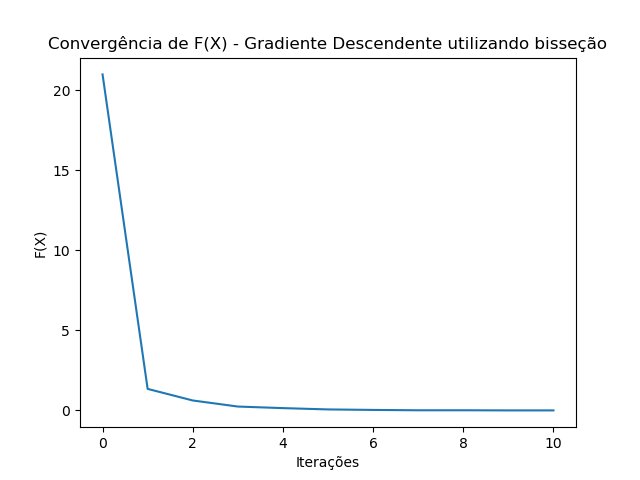
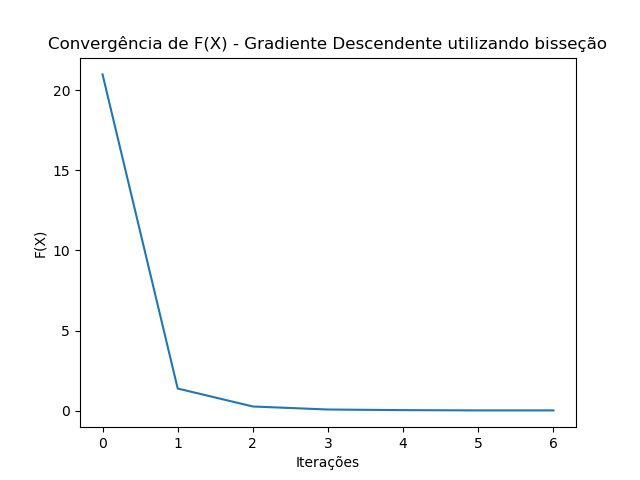
refactor

diff --git a/Atividade 2/gradient_descendente.py b/Atividade 2/gradient_descendente.py
@@ -23,7 +23,7 @@ def hessiana_X(x):
     """
     return np.array([[2, -2],[-2, 4]])
 
-def grad_descendente_passo_fixo(x, learning_rate=0.1, iter_max=1000, max_error=1e-2):
+def grad_descendente(x, taxa_aprendizado_fixa=None, iter_max=1000, max_error=1e-2):
 
     J = []
     f_val = f_X(x)
@@ -32,8 +32,13 @@ def grad_descendente_passo_fixo(x, learning_rate=0.1, iter_max=1000, max_error=1
 
     for i in range(iter_max):
 
-        grad_x = gradF_X(x)
-        x -= learning_rate*grad_x
+        d = -gradF_X(x)
+
+        if taxa_aprendizado_fixa is None:
+            alpha = bissecao(x, d)
+        else:
+            alpha = taxa_aprendizado_fixa
+        x += alpha*d
 
         f_val = f_X(x)
         # if i % 2 == 0:
@@ -46,33 +51,7 @@ def grad_descendente_passo_fixo(x, learning_rate=0.1, iter_max=1000, max_error=1
             return x, J
     return x, J
 
-
-def grad_descendente_bissecao(x, iter_max=1000, max_error=1e-2):
-
-    J = []
-    f_val = f_X(x)
-    J.append(f_val)
-    print ("Valor inicial de F_X: %f" %(f_val))
-
-    for i in range(iter_max):
-
-        grad_x = gradF_X(x)
-        passo = bissecao(x, -grad_x)
-        x -= passo*grad_x
-
-        f_val = f_X(x)
-        # if i % 2 == 0:
-        J.append(f_val)
-        print ("Valor de F_X na iteração %i: %f" %(i, f_val))
-  
-        if np.abs(f_val) < max_error:
-            J.append(f_val)
-            print ("Valor de F_X na iteração final %i: %f" %(i, f_val))
-            return x, J
-    return x, J
-
-
-def grad_descendente_newton_passo_fixo(x, learning_rate=0.1, iter_max=1000, max_error=1e-2):
+def grad_descendente_newton(x, taxa_aprendizado_fixa=None, iter_max=1000, max_error=1e-2):
 
     J = []
     f_val = f_X(x)
@@ -85,38 +64,14 @@ def grad_descendente_newton_passo_fixo(x, learning_rate=0.1, iter_max=1000, max_
         H_x = hessiana_X(x)
         
         d = -np.linalg.inv(H_x) @ grad_x
-        # passo = bissecao(x, d)
-        x += learning_rate*d
-
-        f_val = f_X(x)
-        # if i % 2 == 0:
-        J.append(f_val)
-        print ("Valor de F_X na iteração %i: %f" %(i, f_val))
-  
-        if np.abs(f_val) < max_error:
-            J.append(f_val)
-            print ("Valor de F_X na iteração final %i: %f" %(i, f_val))
-            return x, J
-    return x, J
-
-def grad_descendente_newton_bissecao(x, iter_max=1000, max_error=1e-2):
-
-    J = []
-    f_val = f_X(x)
-    J.append(f_val)
-    print ("Valor inicial de F_X: %f" %(f_val))
-
-    for i in range(iter_max):
-
-        grad_x = gradF_X(x)
-        H_x = hessiana_X(x)
         
-        d = -np.linalg.inv(H_x) @ grad_x
-        passo = bissecao(x, d)
-        x += passo*d
+        if taxa_aprendizado_fixa is None:
+            alpha = bissecao(x, d)
+        else:
+            alpha = taxa_aprendizado_fixa
+        x += alpha*d
 
         f_val = f_X(x)
-        # if i % 2 == 0:
         J.append(f_val)
         print ("Valor de F_X na iteração %i: %f" %(i, f_val))
   
@@ -160,8 +115,7 @@ def bissecao(x, direcao, alpha_superior=None, h_derivada_min=1e-3, max_error=1e-
             return alpha_medio
     return alpha_medio
 
-
-def gradiente_conjugado_passo_fixo(x0, n, learning_rate=0.1, iter_max=1000, max_error=1e-2):
+def gradiente_conjugado(x0, n, taxa_aprendizado_fixa=None, iter_max=1000, max_error=1e-2):
     """
         Utilizando a aproximação Fletcher-Reeves (FR)
     """
@@ -169,31 +123,11 @@ def gradiente_conjugado_passo_fixo(x0, n, learning_rate=0.1, iter_max=1000, max_
     d = -gradF_X(x0)
     x = x0
     for i in range(iter_max):
-        x_proximo = x + learning_rate*d
-        fx = f_X(x_proximo)
-        J.append(fx)
-        if np.abs(fx) < max_error:
-            return x_proximo, J
-        g = -gradF_X(x)
-        g_proximo = -gradF_X(x_proximo)
-        if i % n != 0:
-            b = (g_proximo.T @ g_proximo) / (g.T @ g)
-            d = g + b*d
+        if taxa_aprendizado_fixa is None:
+            alpha = bissecao(x, d)
         else:
-            d = g
-        x = x_proximo
-    return x, J
-
-def gradiente_conjugado_bissecao(x0, n, iter_max=1000, max_error=1e-2):
-    """
-        Utilizando a aproximação Fletcher-Reeves (FR)
-    """
-    J = []
-    d = gradF_X(x0)
-    x = x0
-    for i in range(iter_max):
-        passo = bissecao(x, d)
-        x_proximo = x + passo*d
+            alpha = taxa_aprendizado_fixa
+        x_proximo = x + alpha*d
         fx = f_X(x_proximo)
         J.append(fx)
         if np.abs(fx) < max_error:
@@ -209,8 +143,9 @@ def gradiente_conjugado_bissecao(x0, n, iter_max=1000, max_error=1e-2):
     return x, J
 
 x = [1, 4]
+alpha=0.1
 
-x, J = grad_descendente_passo_fixo(x)
+x, J = grad_descendente(x, taxa_aprendizado_fixa=alpha)
 print("Gradiente com Passo Fixo:")
 print("X={}".format(x))
 print("J[-1]={:.2f} na iteração: {:d}\n".format(J[-1], len(J)))
@@ -219,13 +154,13 @@ plt.title('Convergência de F(X) - Gradiente Descendente com passo fixo')
 plt.xlabel('Iterações')
 plt.ylabel('F(X)')
 plt.savefig('./grad_descendente_passo_fixo.png')
-# plt.show()
+plt.show()
 plt.clf()
 
 
 x = [1, 4]
 
-x, J = grad_descendente_bissecao(x)
+x, J = grad_descendente(x)
 print("Gradiente com Passo Variável:")
 print("X={}".format(x))
 print("J[-1]={:.2f} na iteração: {:d}".format(J[-1], len(J)))
@@ -234,12 +169,12 @@ plt.title('Convergência de F(X) - Gradiente Descendente utilizando bisseção')
 plt.xlabel('Iterações')
 plt.ylabel('F(X)')
 plt.savefig('./grad_descendente_passo_variavel.png')
-# plt.show()
+plt.show()
 plt.clf()
 
 x = [1, 4]
 
-x, J = grad_descendente_newton_passo_fixo(x)
+x, J = grad_descendente_newton(x, taxa_aprendizado_fixa=alpha)
 print("Gradiente com Passo Variável:")
 print("X={}".format(x))
 print("J[-1]={:.2f} na iteração: {:d}".format(J[-1], len(J)))
@@ -248,12 +183,12 @@ plt.title('Convergência de F(X) - Gradiente Descendente utilizando método de n
 plt.xlabel('Iterações')
 plt.ylabel('F(X)')
 plt.savefig('./grad_descendente_newton.png')
-# plt.show()
+plt.show()
 plt.clf()
 
 x = [1, 4]
 
-x, J = grad_descendente_newton_bissecao(x)
+x, J = grad_descendente_newton(x)
 print("Gradiente com Passo Variável:")
 print("X={}".format(x))
 print("J[-1]={:.2f} na iteração: {:d}".format(J[-1], len(J)))
@@ -262,12 +197,12 @@ plt.title('Convergência de F(X) - Gradiente Descendente utilizando método de n
 plt.xlabel('Iterações')
 plt.ylabel('F(X)')
 plt.savefig('./grad_descendente_newton_bissecao.png')
-# plt.show()
+plt.show()
 plt.clf()
 
 x = [1, 4]
 
-x, J = gradiente_conjugado_passo_fixo(x, 2)
+x, J = gradiente_conjugado(x, 2, taxa_aprendizado_fixa=alpha)
 print("Gradiente Conjugado com Passo Fixo:")
 print("X={}".format(x))
 print("J[-1]={:.2f} na iteração: {:d}".format(J[-1], len(J)))
@@ -281,7 +216,7 @@ plt.clf()
 
 x = [1, 4]
 
-x, J = gradiente_conjugado_bissecao(x, 2)
+x, J = gradiente_conjugado(x, 2)
 print("Gradiente Conjugado com Passo Fixo:")
 print("X={}".format(x))
 print("J[-1]={:.2f} na iteração: {:d}".format(J[-1], len(J)))
